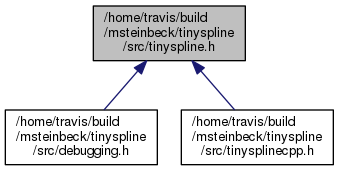
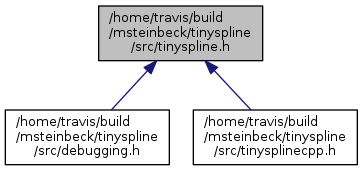
Deploy docs for: 8bb75b75b312a33d89c59d11bb1016588bb7762b

diff --git a/tinyspline_8h.html b/tinyspline_8h.html
@@ -116,8 +116,8 @@ var searchBox = new SearchBox("searchBox", "search",false,'Search');
 <div id="dynsection-1-content" class="dyncontent" style="display:none;">
 <div class="center"><img src="tinyspline_8h__dep__incl.png" border="0" usemap="#_2home_2travis_2build_2msteinbeck_2tinyspline_2src_2tinyspline_8hdep" alt=""/></div>
 <map name="_2home_2travis_2build_2msteinbeck_2tinyspline_2src_2tinyspline_8hdep" id="_2home_2travis_2build_2msteinbeck_2tinyspline_2src_2tinyspline_8hdep">
-<area shape="rect" id="node2" href="debugging_8h_source.html" title="/home/travis/build\l/msteinbeck/tinyspline\l/src/debugging.h" alt="" coords="5,109,157,165"/>
-<area shape="rect" id="node3" href="tinysplinecpp_8h_source.html" title="/home/travis/build\l/msteinbeck/tinyspline\l/src/tinysplinecpp.h" alt="" coords="181,109,333,165"/>
+<area shape="rect" id="node2" href="debugging_8h_source.html" title="/home/travis/build\l/msteinbeck/tinyspline\l/src/debugging.h" alt="" coords="5,109,169,165"/>
+<area shape="rect" id="node3" href="tinysplinecpp_8h_source.html" title="/home/travis/build\l/msteinbeck/tinyspline\l/src/tinysplinecpp.h" alt="" coords="193,109,357,165"/>
 </map>
 </div>
 </div>
@@ -1275,7 +1275,7 @@ TS_MALLOC If allocating memory failed. </dd></dl>
 <!-- start footer part -->
 <hr class="footer"/><address class="footer"><small>This project is maintained by <a href="https://github.com/msteinbeck">Marcel Steinbeck</a>.<br />
 &copy; 2014-2017 - TinySpline is released under the terms of the MIT license.<br />
-Generated on Tue Jan 30 2018 12:38:22 for TinySpline by &#160;<a href="http://www.doxygen.org/index.html">
+Generated on Fri Jun 8 2018 05:07:16 for TinySpline by &#160;<a href="http://www.doxygen.org/index.html">
 <img class="footer" src="doxygen.png" alt="doxygen"/>
 </a> 1.8.11<br />
 Library logo and Doxygen theme custom created by <a href="https://www.nightwave.co">Nightwave Studios</a>.

diff --git a/classtinyspline_1_1_b_spline.html b/classtinyspline_1_1_b_spline.html
@@ -198,7 +198,7 @@ void&#160;</td><td class="memItemRight" valign="bottom"><b>swap</b> (<a class="e
 <!-- start footer part -->
 <hr class="footer"/><address class="footer"><small>This project is maintained by <a href="https://github.com/msteinbeck">Marcel Steinbeck</a>.<br />
 &copy; 2014-2017 - TinySpline is released under the terms of the MIT license.<br />
-Generated on Tue Jan 30 2018 12:38:22 for TinySpline by &#160;<a href="http://www.doxygen.org/index.html">
+Generated on Fri Jun 8 2018 05:07:16 for TinySpline by &#160;<a href="http://www.doxygen.org/index.html">
 <img class="footer" src="doxygen.png" alt="doxygen"/>
 </a> 1.8.11<br />
 Library logo and Doxygen theme custom created by <a href="https://www.nightwave.co">Nightwave Studios</a>.

diff --git a/classtinyspline_1_1_de_boor_net.html b/classtinyspline_1_1_de_boor_net.html
@@ -158,7 +158,7 @@ void&#160;</td><td class="memItemRight" valign="bottom"><b>swap</b> (<a class="e
 <!-- start footer part -->
 <hr class="footer"/><address class="footer"><small>This project is maintained by <a href="https://github.com/msteinbeck">Marcel Steinbeck</a>.<br />
 &copy; 2014-2017 - TinySpline is released under the terms of the MIT license.<br />
-Generated on Tue Jan 30 2018 12:38:22 for TinySpline by &#160;<a href="http://www.doxygen.org/index.html">
+Generated on Fri Jun 8 2018 05:07:16 for TinySpline by &#160;<a href="http://www.doxygen.org/index.html">
 <img class="footer" src="doxygen.png" alt="doxygen"/>
 </a> 1.8.11<br />
 Library logo and Doxygen theme custom created by <a href="https://www.nightwave.co">Nightwave Studios</a>.

diff --git a/classtinyspline_1_1_utils.html b/classtinyspline_1_1_utils.html
@@ -121,7 +121,7 @@ static <a class="el" href="tinyspline_8h.html#a565ff3761d90530714283629d1850e9a"
 <!-- start footer part -->
 <hr class="footer"/><address class="footer"><small>This project is maintained by <a href="https://github.com/msteinbeck">Marcel Steinbeck</a>.<br />
 &copy; 2014-2017 - TinySpline is released under the terms of the MIT license.<br />
-Generated on Tue Jan 30 2018 12:38:22 for TinySpline by &#160;<a href="http://www.doxygen.org/index.html">
+Generated on Fri Jun 8 2018 05:07:16 for TinySpline by &#160;<a href="http://www.doxygen.org/index.html">
 <img class="footer" src="doxygen.png" alt="doxygen"/>
 </a> 1.8.11<br />
 Library logo and Doxygen theme custom created by <a href="https://www.nightwave.co">Nightwave Studios</a>.

diff --git a/graph_legend.html b/graph_legend.html
@@ -117,7 +117,7 @@ A yellow dashed arrow denotes a relation between a template instance and the tem
 <!-- start footer part -->
 <hr class="footer"/><address class="footer"><small>This project is maintained by <a href="https://github.com/msteinbeck">Marcel Steinbeck</a>.<br />
 &copy; 2014-2017 - TinySpline is released under the terms of the MIT license.<br />
-Generated on Tue Jan 30 2018 12:38:22 for TinySpline by &#160;<a href="http://www.doxygen.org/index.html">
+Generated on Fri Jun 8 2018 05:07:16 for TinySpline by &#160;<a href="http://www.doxygen.org/index.html">
 <img class="footer" src="doxygen.png" alt="doxygen"/>
 </a> 1.8.11<br />
 Library logo and Doxygen theme custom created by <a href="https://www.nightwave.co">Nightwave Studios</a>.

diff --git a/structts_b_spline.html b/structts_b_spline.html
@@ -133,7 +133,7 @@ tsReal *&#160;</td><td class="memItemRight" valign="bottom"><b>knots</b></td></t
 <!-- start footer part -->
 <hr class="footer"/><address class="footer"><small>This project is maintained by <a href="https://github.com/msteinbeck">Marcel Steinbeck</a>.<br />
 &copy; 2014-2017 - TinySpline is released under the terms of the MIT license.<br />
-Generated on Tue Jan 30 2018 12:38:22 for TinySpline by &#160;<a href="http://www.doxygen.org/index.html">
+Generated on Fri Jun 8 2018 05:07:16 for TinySpline by &#160;<a href="http://www.doxygen.org/index.html">
 <img class="footer" src="doxygen.png" alt="doxygen"/>
 </a> 1.8.11<br />
 Library logo and Doxygen theme custom created by <a href="https://www.nightwave.co">Nightwave Studios</a>.

diff --git a/annotated.html b/annotated.html
@@ -104,7 +104,7 @@ var searchBox = new SearchBox("searchBox", "search",false,'Search');
 <!-- start footer part -->
 <hr class="footer"/><address class="footer"><small>This project is maintained by <a href="https://github.com/msteinbeck">Marcel Steinbeck</a>.<br />
 &copy; 2014-2017 - TinySpline is released under the terms of the MIT license.<br />
-Generated on Tue Jan 30 2018 12:38:22 for TinySpline by &#160;<a href="http://www.doxygen.org/index.html">
+Generated on Fri Jun 8 2018 05:07:16 for TinySpline by &#160;<a href="http://www.doxygen.org/index.html">
 <img class="footer" src="doxygen.png" alt="doxygen"/>
 </a> 1.8.11<br />
 Library logo and Doxygen theme custom created by <a href="https://www.nightwave.co">Nightwave Studios</a>.

diff --git a/classes.html b/classes.html
@@ -106,7 +106,7 @@ var searchBox = new SearchBox("searchBox", "search",false,'Search');
 <!-- start footer part -->
 <hr class="footer"/><address class="footer"><small>This project is maintained by <a href="https://github.com/msteinbeck">Marcel Steinbeck</a>.<br />
 &copy; 2014-2017 - TinySpline is released under the terms of the MIT license.<br />
-Generated on Tue Jan 30 2018 12:38:22 for TinySpline by &#160;<a href="http://www.doxygen.org/index.html">
+Generated on Fri Jun 8 2018 05:07:16 for TinySpline by &#160;<a href="http://www.doxygen.org/index.html">
 <img class="footer" src="doxygen.png" alt="doxygen"/>
 </a> 1.8.11<br />
 Library logo and Doxygen theme custom created by <a href="https://www.nightwave.co">Nightwave Studios</a>.

diff --git a/classtinyspline_1_1_b_spline-members.html b/classtinyspline_1_1_b_spline-members.html
@@ -130,7 +130,7 @@ var searchBox = new SearchBox("searchBox", "search",false,'Search');
 <!-- start footer part -->
 <hr class="footer"/><address class="footer"><small>This project is maintained by <a href="https://github.com/msteinbeck">Marcel Steinbeck</a>.<br />
 &copy; 2014-2017 - TinySpline is released under the terms of the MIT license.<br />
-Generated on Tue Jan 30 2018 12:38:22 for TinySpline by &#160;<a href="http://www.doxygen.org/index.html">
+Generated on Fri Jun 8 2018 05:07:16 for TinySpline by &#160;<a href="http://www.doxygen.org/index.html">
 <img class="footer" src="doxygen.png" alt="doxygen"/>
 </a> 1.8.11<br />
 Library logo and Doxygen theme custom created by <a href="https://www.nightwave.co">Nightwave Studios</a>.

diff --git a/classtinyspline_1_1_de_boor_net-members.html b/classtinyspline_1_1_de_boor_net-members.html
@@ -118,7 +118,7 @@ var searchBox = new SearchBox("searchBox", "search",false,'Search');
 <!-- start footer part -->
 <hr class="footer"/><address class="footer"><small>This project is maintained by <a href="https://github.com/msteinbeck">Marcel Steinbeck</a>.<br />
 &copy; 2014-2017 - TinySpline is released under the terms of the MIT license.<br />
-Generated on Tue Jan 30 2018 12:38:22 for TinySpline by &#160;<a href="http://www.doxygen.org/index.html">
+Generated on Fri Jun 8 2018 05:07:16 for TinySpline by &#160;<a href="http://www.doxygen.org/index.html">
 <img class="footer" src="doxygen.png" alt="doxygen"/>
 </a> 1.8.11<br />
 Library logo and Doxygen theme custom created by <a href="https://www.nightwave.co">Nightwave Studios</a>.

diff --git a/classtinyspline_1_1_utils-members.html b/classtinyspline_1_1_utils-members.html
@@ -105,7 +105,7 @@ var searchBox = new SearchBox("searchBox", "search",false,'Search');
 <!-- start footer part -->
 <hr class="footer"/><address class="footer"><small>This project is maintained by <a href="https://github.com/msteinbeck">Marcel Steinbeck</a>.<br />
 &copy; 2014-2017 - TinySpline is released under the terms of the MIT license.<br />
-Generated on Tue Jan 30 2018 12:38:22 for TinySpline by &#160;<a href="http://www.doxygen.org/index.html">
+Generated on Fri Jun 8 2018 05:07:16 for TinySpline by &#160;<a href="http://www.doxygen.org/index.html">
 <img class="footer" src="doxygen.png" alt="doxygen"/>
 </a> 1.8.11<br />
 Library logo and Doxygen theme custom created by <a href="https://www.nightwave.co">Nightwave Studios</a>.

diff --git a/debugging_8h_source.html b/debugging_8h_source.html
@@ -101,7 +101,7 @@ var searchBox = new SearchBox("searchBox", "search",false,'Search');
 <!-- start footer part -->
 <hr class="footer"/><address class="footer"><small>This project is maintained by <a href="https://github.com/msteinbeck">Marcel Steinbeck</a>.<br />
 &copy; 2014-2017 - TinySpline is released under the terms of the MIT license.<br />
-Generated on Tue Jan 30 2018 12:38:22 for TinySpline by &#160;<a href="http://www.doxygen.org/index.html">
+Generated on Fri Jun 8 2018 05:07:16 for TinySpline by &#160;<a href="http://www.doxygen.org/index.html">
 <img class="footer" src="doxygen.png" alt="doxygen"/>
 </a> 1.8.11<br />
 Library logo and Doxygen theme custom created by <a href="https://www.nightwave.co">Nightwave Studios</a>.
